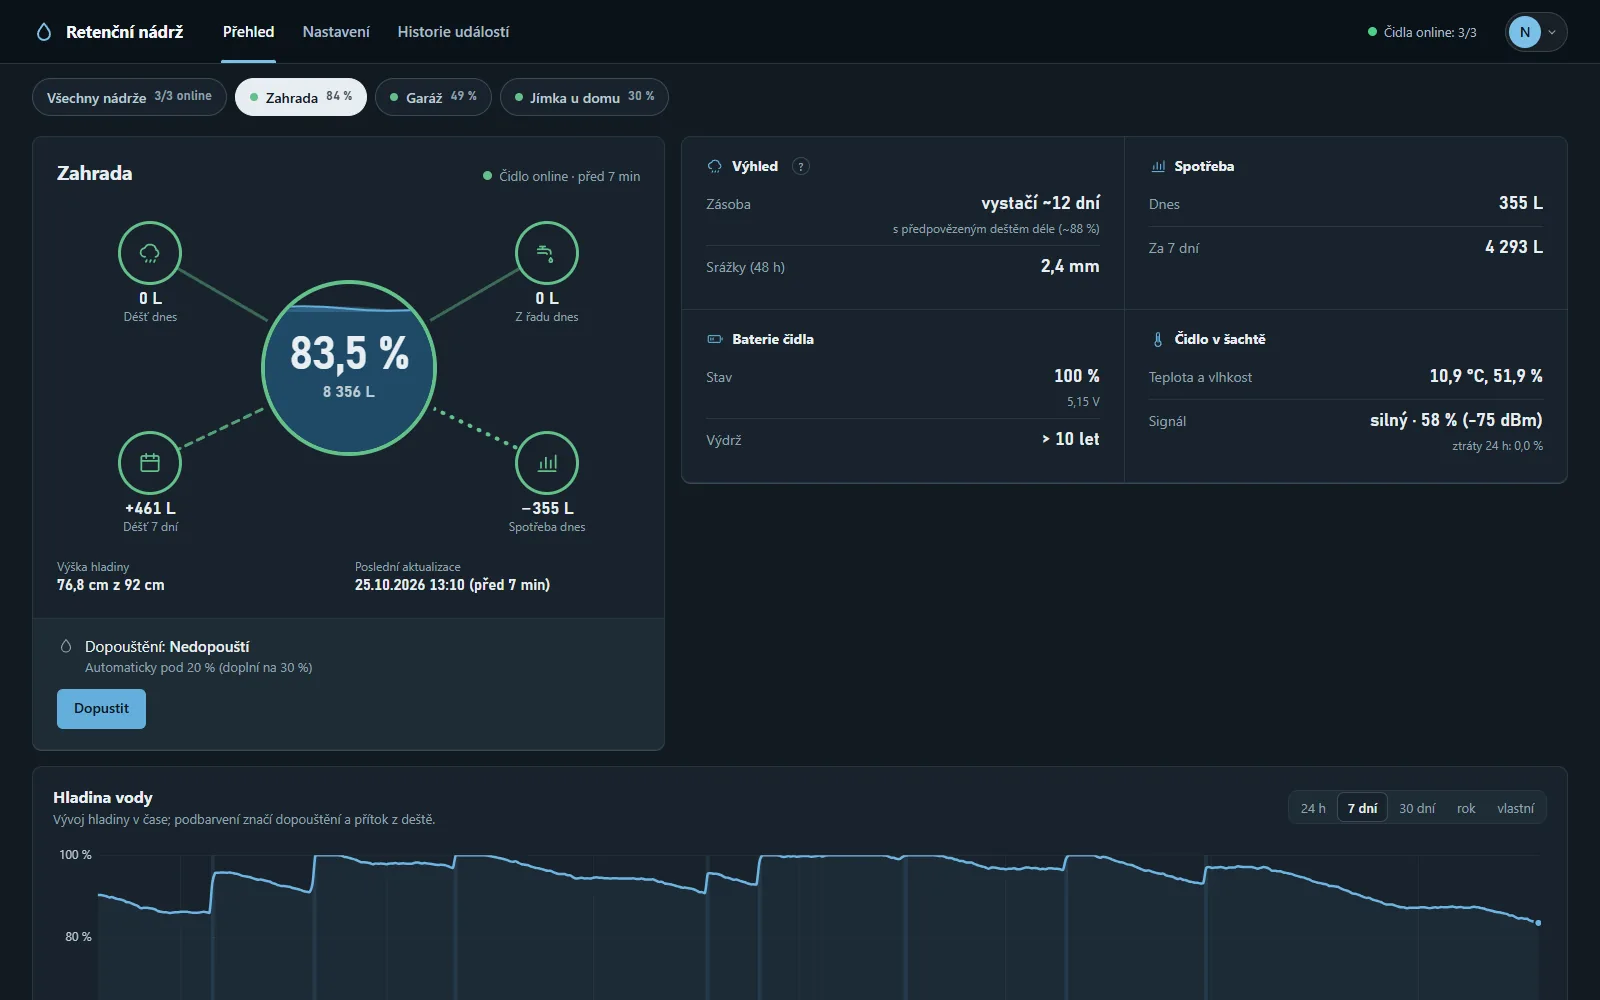
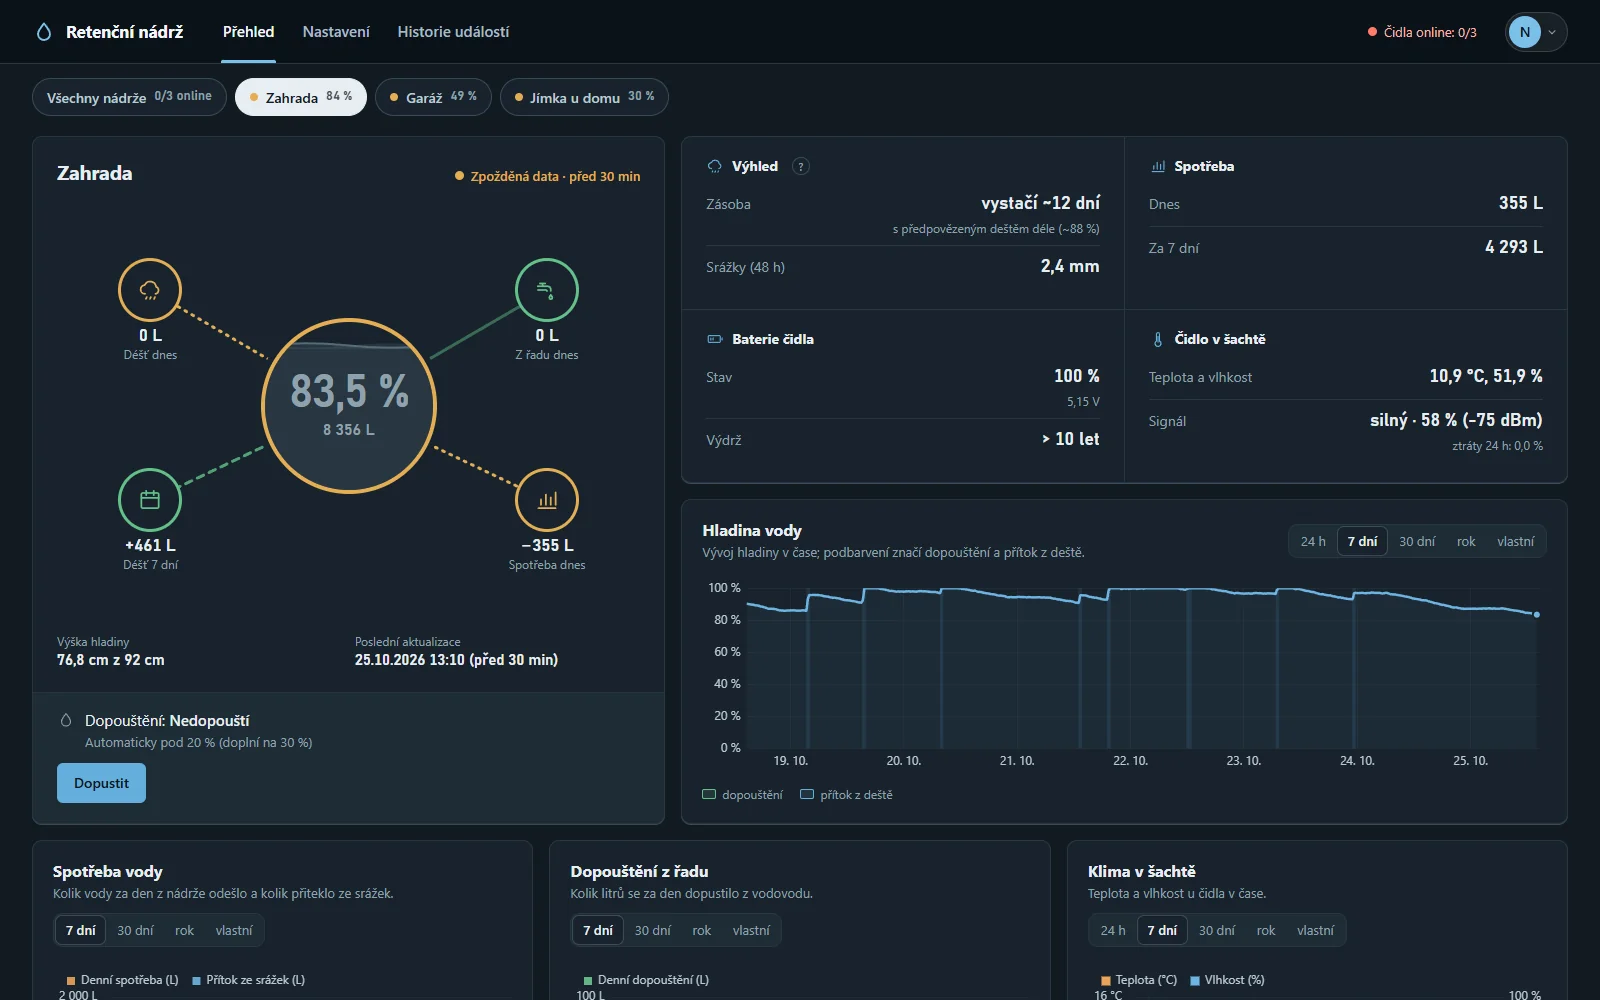
Level chart beside the tank fills the empty space, new screenshots; version 1.14.1

diff --git a/server/static/index.html b/server/static/index.html
@@ -192,52 +192,54 @@
                     </div>
                 </section>
 
-                <!-- Doplňkové hodnoty ve skupinách -->
-                <section class="card facts-card" aria-label="Podrobnosti nádrže">
-                    <div class="fact-group" id="outlookBox">
-                        <h3><svg class="ico" aria-hidden="true"><use href="#i-rain"/></svg>Výhled <button type="button" class="help-tip" data-help="outlook"></button></h3>
-                        <dl class="facts">
-                            <div class="fact"><dt>Zásoba</dt><dd><span id="txtOutlook">–</span><small id="txtOutlookSub">–</small></dd></div>
-                            <div class="fact"><dt>Srážky (48 h)</dt><dd id="txtRain">–</dd></div>
-                        </dl>
-                    </div>
-                    <div class="fact-group">
-                        <h3><svg class="ico" aria-hidden="true"><use href="#i-bars"/></svg>Spotřeba</h3>
-                        <dl class="facts">
-                            <div class="fact"><dt>Dnes</dt><dd id="txtConsToday">–</dd></div>
-                            <div class="fact"><dt>Za 7 dní</dt><dd id="txtCons7d">–</dd></div>
-                        </dl>
-                    </div>
-                    <div class="fact-group" id="batBox">
-                        <h3><svg class="ico" aria-hidden="true"><use href="#i-battery"/></svg>Baterie čidla</h3>
-                        <dl class="facts">
-                            <div class="fact"><dt>Stav</dt><dd><span id="txtBat">–</span><small id="txtBatV">–</small></dd></div>
-                            <div class="fact"><dt>Výdrž</dt><dd id="txtBatEst">–</dd></div>
-                        </dl>
-                    </div>
-                    <div class="fact-group" id="linkBox">
-                        <h3><svg class="ico" aria-hidden="true"><use href="#i-thermo"/></svg>Čidlo v šachtě</h3>
-                        <dl class="facts">
-                            <div class="fact"><dt>Teplota a vlhkost</dt><dd><span class="plain" id="txtTemp">–</span>, <span class="plain" id="txtHum">–</span></dd></div>
-                            <div class="fact"><dt>Signál</dt><dd><span id="txtRssi">–</span><small id="txtLoss">–</small></dd></div>
-                        </dl>
-                    </div>
-                </section>
+                <div class="dash-side">
+                    <!-- Doplňkové hodnoty ve skupinách -->
+                    <section class="card facts-card" aria-label="Podrobnosti nádrže">
+                        <div class="fact-group" id="outlookBox">
+                            <h3><svg class="ico" aria-hidden="true"><use href="#i-rain"/></svg>Výhled <button type="button" class="help-tip" data-help="outlook"></button></h3>
+                            <dl class="facts">
+                                <div class="fact"><dt>Zásoba</dt><dd><span id="txtOutlook">–</span><small id="txtOutlookSub">–</small></dd></div>
+                                <div class="fact"><dt>Srážky (48 h)</dt><dd id="txtRain">–</dd></div>
+                            </dl>
+                        </div>
+                        <div class="fact-group">
+                            <h3><svg class="ico" aria-hidden="true"><use href="#i-bars"/></svg>Spotřeba</h3>
+                            <dl class="facts">
+                                <div class="fact"><dt>Dnes</dt><dd id="txtConsToday">–</dd></div>
+                                <div class="fact"><dt>Za 7 dní</dt><dd id="txtCons7d">–</dd></div>
+                            </dl>
+                        </div>
+                        <div class="fact-group" id="batBox">
+                            <h3><svg class="ico" aria-hidden="true"><use href="#i-battery"/></svg>Baterie čidla</h3>
+                            <dl class="facts">
+                                <div class="fact"><dt>Stav</dt><dd><span id="txtBat">–</span><small id="txtBatV">–</small></dd></div>
+                                <div class="fact"><dt>Výdrž</dt><dd id="txtBatEst">–</dd></div>
+                            </dl>
+                        </div>
+                        <div class="fact-group" id="linkBox">
+                            <h3><svg class="ico" aria-hidden="true"><use href="#i-thermo"/></svg>Čidlo v šachtě</h3>
+                            <dl class="facts">
+                                <div class="fact"><dt>Teplota a vlhkost</dt><dd><span class="plain" id="txtTemp">–</span>, <span class="plain" id="txtHum">–</span></dd></div>
+                                <div class="fact"><dt>Signál</dt><dd><span id="txtRssi">–</span><small id="txtLoss">–</small></dd></div>
+                            </dl>
+                        </div>
+                    </section>
+
+                    <section class="card chart-card level-card">
+                        <div class="card-head">
+                            <div class="card-head-text"><h2>Hladina vody</h2><p class="card-desc">Vývoj hladiny v čase; podbarvení značí dopouštění a přítok z deště.</p></div>
+                            <div class="range-picker" data-chart="level" data-default="7d" data-kind="time"></div>
+                        </div>
+                        <div class="chart-container chart-fill"><canvas id="historyChart"></canvas></div>
+                        <div class="chart-legend-extra">
+                            <span class="refill-only"><i class="lg lg-refill"></i>dopouštění</span>
+                            <span><i class="lg lg-rain"></i>přítok z deště</span>
+                        </div>
+                    </section>
+                </div>
             </div>
 
             <div class="chart-grid">
-                <section class="card chart-card span-all">
-                    <div class="card-head">
-                        <div class="card-head-text"><h2>Hladina vody</h2><p class="card-desc">Vývoj hladiny v čase; podbarvení značí dopouštění a přítok z deště.</p></div>
-                        <div class="range-picker" data-chart="level" data-default="7d" data-kind="time"></div>
-                    </div>
-                    <div class="chart-container chart-tall"><canvas id="historyChart"></canvas></div>
-                    <div class="chart-legend-extra">
-                        <span class="refill-only"><i class="lg lg-refill"></i>dopouštění</span>
-                        <span><i class="lg lg-rain"></i>přítok z deště</span>
-                    </div>
-                </section>
-
                 <section class="card chart-card">
                     <div class="card-head">
                         <div class="card-head-text"><h2>Spotřeba vody</h2><p class="card-desc">Kolik vody za den z nádrže odešlo a kolik přiteklo ze srážek.</p></div>

diff --git a/server/static/css/style.css b/server/static/css/style.css
@@ -368,11 +368,11 @@ body.has-save-bar .app-container { padding-bottom: 110px; }
     display: grid;
     grid-template-columns: minmax(400px, 5fr) minmax(0, 7fr);
     gap: 16px;
-    align-items: start;
+    align-items: stretch;
 }
 
 .tank-card { display: flex; flex-direction: column; padding: 22px 24px; }
-.tank-head { display: flex; flex-wrap: wrap; align-items: baseline; justify-content: space-between; gap: 2px 16px; }
+.tank-head { display: flex; flex-wrap: wrap; align-items: baseline; justify-content: space-between; gap: 2px 16px; margin-bottom: 8px; }
 .tank-name { margin: 0; font-size: 20px; font-weight: 700; letter-spacing: -0.01em; overflow-wrap: anywhere; }
 .tank-status { display: flex; align-items: center; gap: 7px; margin: 0; font-size: 13px; color: var(--muted); }
 .tank-status .dot { width: 9px; height: 9px; }
@@ -396,12 +396,12 @@ body.has-save-bar .app-container { padding-bottom: 110px; }
 .tank-card.is-stale .wave svg {
     animation: none !important;
 }
-.tank-meta { margin: auto 0 0; padding-top: 14px; display: grid; grid-template-columns: repeat(2, minmax(0, 1fr)); gap: 12px; }
+.tank-meta { margin: 0; padding-top: 14px; display: grid; grid-template-columns: repeat(2, minmax(0, 1fr)); gap: 12px; }
 .tank-meta dt { font-size: 12px; color: var(--muted); }
 .tank-meta dd { margin: 0; font-size: 15px; font-weight: 600; font-family: var(--font-num); }
 
 /* --- Schéma toků: kulatá nádrž uprostřed, uzly v rozích ------------------- */
-.flow { position: relative; height: 350px; margin: 8px 0 0; }
+.flow { position: relative; height: 350px; margin: auto 0; }
 .flow-lines { position: absolute; inset: 0; width: 100%; height: 100%; overflow: visible; }
 .fl {
     fill: none; stroke-width: 3; stroke-linecap: round; vector-effect: non-scaling-stroke;
@@ -517,6 +517,10 @@ body.has-save-bar .app-container { padding-bottom: 110px; }
 .span-2 { grid-column: span 2; }
 .chart-container { position: relative; height: 260px; width: 100%; }
 .chart-container.chart-tall { height: clamp(300px, 45vh, 560px); }
+/* Graf hladiny v pravém sloupci vedle nádrže: dorovná výšku karty nádrže */
+.dash-side { display: flex; flex-direction: column; gap: 16px; min-width: 0; }
+.level-card { flex: 1; display: flex; flex-direction: column; }
+.chart-container.chart-fill { flex: 1; height: auto; min-height: 200px; }
 .chart-legend-extra { display: flex; gap: 18px; margin-top: 10px; font-size: 12px; color: var(--muted); }
 .chart-legend-extra span { display: inline-flex; align-items: center; gap: 6px; }
 .lg { display: inline-block; width: 14px; height: 10px; border-radius: 2px; }
@@ -921,6 +925,7 @@ body.no-refill .refill-only { display: none !important; }
 }
 @media (max-width: 960px) {
     .dash-top { grid-template-columns: minmax(0, 1fr); }
+    .chart-container.chart-fill { flex: none; height: clamp(300px, 45vh, 560px); }
     .live-grid { grid-template-columns: repeat(2, minmax(0, 1fr)); }
 }
 
@@ -933,7 +938,7 @@ body.no-refill .refill-only { display: none !important; }
     .nav-tab { font-size: 14px; padding: 0 10px; }
     .node-bar { margin: 0 -16px; padding: 12px 16px 0; }
     .chart-grid { grid-template-columns: minmax(0, 1fr); gap: 12px; margin-top: 12px; }
-    .dash-top, .stack { gap: 12px; }
+    .dash-top, .dash-side, .stack { gap: 12px; }
     .brand-name { font-size: 15px; }
     .card { padding: 16px; }
     .tab-content { padding-top: 16px; }
@@ -951,12 +956,12 @@ body.no-refill .refill-only { display: none !important; }
     .refill-block { margin: 16px -16px -18px; padding: 14px 16px 16px; }
     .refill-actions > * { flex: 1 1 auto; }
 
-    .facts-card { grid-template-columns: minmax(0, 1fr); }
+    .facts-card { grid-template-columns: minmax(0, 1fr); padding: 0; }
     .fact-group { padding: 16px; }
     .fact-group:nth-child(odd) { border-right: 0; }
     .fact-group:nth-child(n+2) { border-top: 1px solid var(--line); }
     .chart-container { height: 220px; }
-    .chart-container.chart-tall { height: 260px; }
+    .chart-container.chart-tall, .chart-container.chart-fill { height: 260px; }
     .span-2 { grid-column: auto; }
     .tank-meta { padding-top: 12px; gap: 8px; grid-template-columns: minmax(0, 1fr); }
     .level-litres { font-size: 16px; }

diff --git a/server/retencka/__init__.py b/server/retencka/__init__.py
@@ -1,3 +1,3 @@
 """Retenční nádrž – receiver, storage and web server for Raspberry Pi Zero 2 W."""
 
-__version__ = "1.14.0"
+__version__ = "1.14.1"

diff --git a/CHANGELOG.md b/CHANGELOG.md
@@ -3,6 +3,14 @@
 Formát dle [Keep a Changelog](https://keepachangelog.com/en/1.0.0/), verze dle [SemVer](https://semver.org/).
 Postup vydání nové verze: [docs/vydani.md](docs/vydani.md).
 
+## [1.14.1] - 2026-10-25
+
+### Změněno
+- **Přehled nádrže bez prázdného místa:** graf *Hladina vody* je nově v pravém sloupci pod doplňkovými údaji a dorovná výšku karty nádrže (dřív vedle nádrže zůstávala prázdná plocha); schéma toků se v kartě nádrže svisle vycentruje. Na úzkém displeji zůstává vše pod sebou.
+
+### Opraveno
+- Karta doplňkových údajů měla na mobilu zdvojený vnitřní okraj.
+
 ## [1.14.0] - 2026-10-25
 
 ### Přidáno
